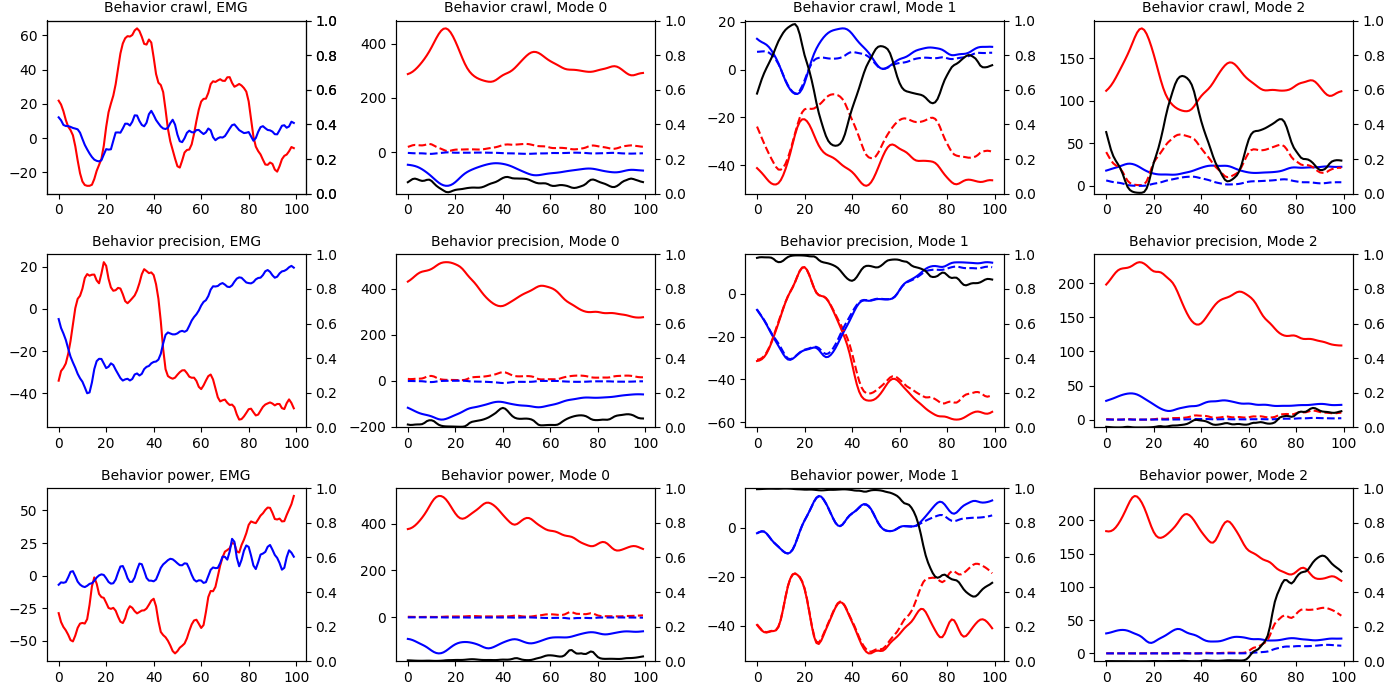
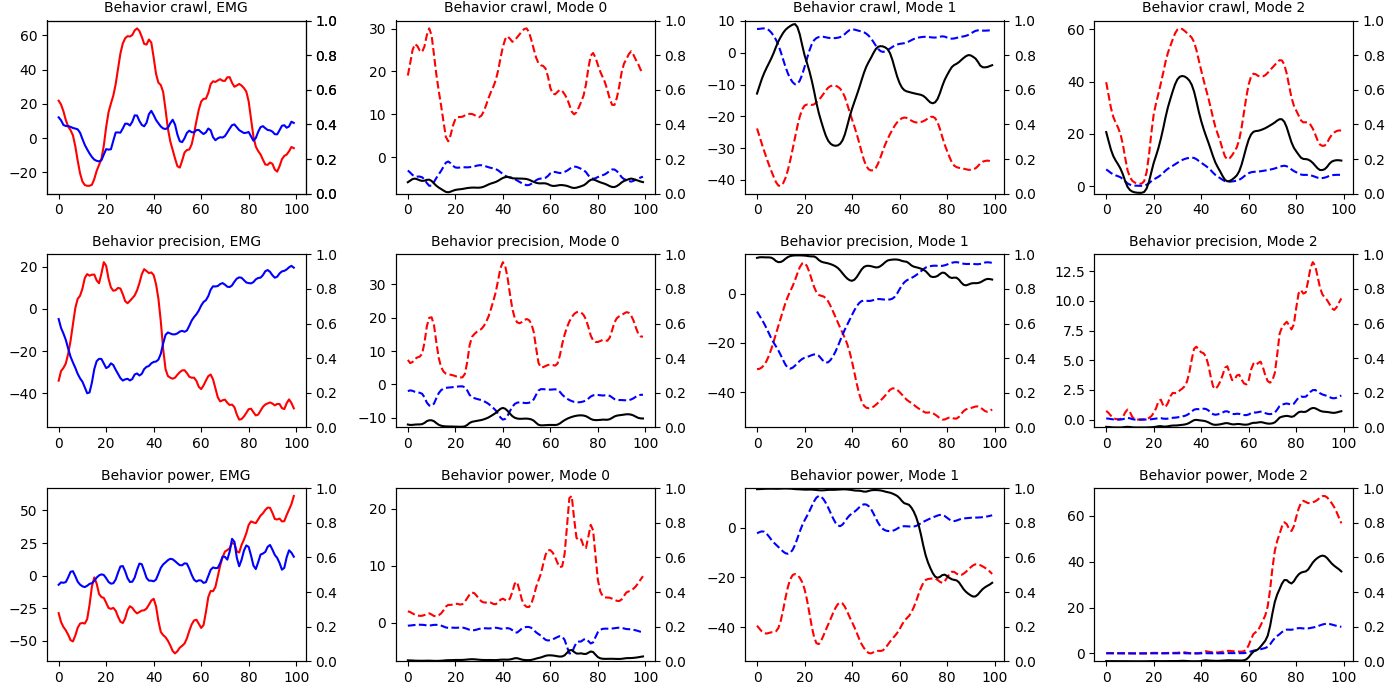
start set1 data preprocessing, decoder output plots without unweighted, scaling outputs experiments cont

diff --git a/data/data.py b/data/data.py
@@ -1,13 +1,16 @@
 # Script for the LightningDataModule objects
 
 # Import packages
+import os
 import pytorch_lightning as pl
 import torch
 import torch.nn.functional as F
 import numpy as np
 from torch.utils.data import DataLoader
 from sklearn.model_selection import train_test_split
-from sklearn.preprocessing import minmax_scale
+# from sklearn.preprocessing import minmax_scale
+from sklearn.preprocessing import MinMaxScaler
+import matplotlib.pyplot as plt
 
 class Cage_Dataset(pl.LightningDataModule):
     
@@ -77,11 +80,10 @@ class Cage_Dataset(pl.LightningDataModule):
         else:
             # Determine whether to perform output scaling experiment
             scale_outputs = True
+
             # Read in data
             m1 = torch.Tensor(np.load(m1_path))
             emg = torch.Tensor(np.load(emg_path))
-            if scale_outputs:
-                emg = torch.Tensor(np.apply_along_axis(minmax_scale, 2, emg))
             behavioral = np.load(behavioral_path)
             labels = [[emg[i], behavioral[i]] for i in range(len(emg))]
             X_train, X_val, y_train, y_val = train_test_split(m1, labels, test_size=0.2, random_state=42)
@@ -97,6 +99,38 @@ class Cage_Dataset(pl.LightningDataModule):
             y_val_emg = torch.reshape(y_val_emg, (y_val_emg.size()[0]*y_val_emg.size()[1], y_val_emg.size()[2]))
             y_val_behavioral = np.stack([v[1] for v in y_val])
             y_val_behavioral = np.reshape(y_val_behavioral, (y_val_behavioral.shape[0]*y_val_behavioral.shape[1]))
+
+            # Perform min-max scaling
+            if scale_outputs:
+                plot_variance = False
+                scaler = MinMaxScaler()
+                scaler.fit(y_train_emg)
+                if plot_variance:
+                    y_train_emg_unscaled = y_train_emg
+                y_train_emg = torch.Tensor(scaler.transform(y_train_emg))
+                y_val_emg = torch.Tensor(scaler.transform(y_val_emg))
+                # Create plots for variance in EMG data before and after scaling
+                if plot_variance:
+                    save_fig = True
+                    unscaled_var_vals = torch.var(y_train_emg_unscaled, dim=0)
+                    scaled_var_vals = torch.var(y_train_emg, dim=0)
+                    fig, ax = plt.subplots(1,2, figsize=(10,5))
+                    # fig.tight_layout()
+                    fig.suptitle("Unscaled vs Scaled Variance in EMG")
+                    ax[0].plot(unscaled_var_vals, label="unscaled")
+                    ax[0].legend()
+                    ax[0].set_xlabel("Muscles")
+                    ax[0].set_ylabel("Variance")
+                    ax[1].plot(scaled_var_vals, label="scaled")
+                    ax[1].legend()
+                    ax[1].set_xlabel("Muscles")
+                    ax[1].set_ylabel("Variance")
+                    fig.tight_layout()
+                    if save_fig:
+                        curr_dir = os.getcwd()
+                        plt.savefig("%s/figures/misc/scaled_var_diff.png" % curr_dir)
+                    else:
+                        plt.show()
 
             self.train_dataset = [(X_train[i], y_train_emg[i], y_train_behavioral[i]) for i in range(len(X_train))]
             self.val_dataset = [(X_val[i], y_val_emg[i], y_val_behavioral[i]) for i in range(len(X_val))]

diff --git a/eval/evaluate.py b/eval/evaluate.py
@@ -879,6 +879,7 @@ def sep_decoders_R2(model_path, dataset, config, plot_type, model_id, verbose):
         number_labels = ["1", "2", "3", "4", "5", "6", "7"]
 
         # Plot averaged decoding outputs for each behavior
+        equal_scale = True
         fig, ax = plt.subplots(3,4, figsize=(14,7))
         ax2 = ax[0,0].twinx()
         ax2 = [[ax_inner.twinx() for ax_inner in ax_outer] for ax_outer in ax]
@@ -899,7 +900,6 @@ def sep_decoders_R2(model_path, dataset, config, plot_type, model_id, verbose):
             y1_final = y*y1
             y2_final = y*y2
             # Plot output distributions
-            equal_scale = True
             for i in range(len(y1)+1):
 
                 # Plot ground truth EMG values
@@ -908,19 +908,21 @@ def sep_decoders_R2(model_path, dataset, config, plot_type, model_id, verbose):
                     ax[ax_pos, i].plot(x, y_1, label="PCA1", color="red")
                     ax[ax_pos, i].plot(x, y_2, label="PCA2", color="blue")
                     if equal_scale:
-                        ax[ax_pos][i].set_ylim([-250,550]) # Scale y-axis for equal comparison
+                        # ax[ax_pos][i].set_ylim([-250,550]) # Scale y-axis for equal comparison
+                        ax[ax_pos][i].set_ylim([-60,70]) # Scale y-axis for equal comparison
                     
                 # Plot mode values
                 else:
                     ax[ax_pos, i].set_title("Behavior %s, Mode %s" % (k, i-1), fontsize=10)
-                    ax[ax_pos, i].plot(x, y1[i-1], label="PCA1", color="red")
-                    ax[ax_pos, i].plot(x, y2[i-1], label="PCA2", color="blue")
+                    # ax[ax_pos, i].plot(x, y1[i-1], label="PCA1", color="red")
+                    # ax[ax_pos, i].plot(x, y2[i-1], label="PCA2", color="blue")
                     ax[ax_pos, i].plot(x, y1_final[i-1], label="PCA1_final", color="red", linestyle='dashed')
                     ax[ax_pos, i].plot(x, y2_final[i-1], label="PCA2_final", color="blue", linestyle='dashed')
                     ax2[ax_pos][i].plot(x, y[i-1], label="prob", color="black")
                     ax2[ax_pos][i].set_ylim([0,1])
                     if equal_scale:
-                        ax[ax_pos][i].set_ylim([-250,550]) # Scale y-axis for equal comparison
+                        # ax[ax_pos][i].set_ylim([-250,550]) # Scale y-axis for equal comparison
+                        ax[ax_pos][i].set_ylim([-60,70]) # Scale y-axis for equal comparison
 
             ax_pos += 1
         

diff --git a/model/model.py b/model/model.py
@@ -100,7 +100,7 @@ class DecoderModel(nn.Module):
         # x = self.leaky_relu(x)
 
         # Determine whether to perform output scaling experiment
-        scale_outputs = True
+        scale_outputs = False
         if scale_outputs:
             x = torch.tanh(x)
             x = nn.LeakyReLU(0.1)(x)
